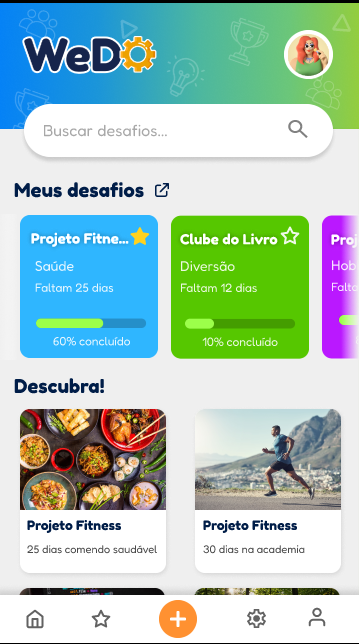
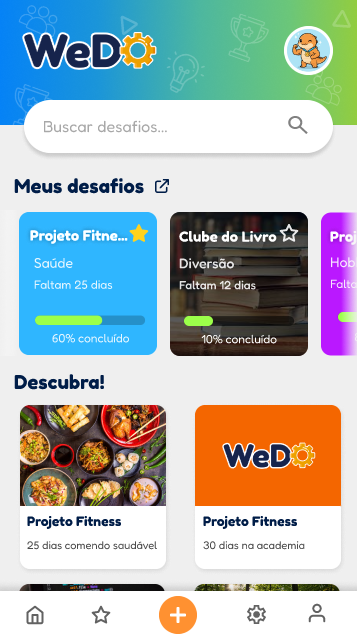
Mudanças no layout, cores, organização: mobile e desktop

diff --git a/src/components/Navbar.vue b/src/components/Navbar.vue
@@ -45,7 +45,7 @@
 <style scoped lang="scss">
   @use "sass:color";
   $color-primary: #004c99;
-  $color-text-menu: #337ab7;
+  $color-text-menu: #00417a;
   $color-bg-top: #222222;
   $color-bg-main: #ffffff;
   $breakpoint-mobile: 766px;
@@ -65,7 +65,7 @@
     justify-content: space-between;
     align-items: center;
     height: 80px;
-    padding-right: 15%;
+    padding-right: 10%;
     background-color: $color-bg-main;
 
     &--logo {
@@ -73,7 +73,7 @@
       align-items: center;
 
       .logo-img {
-        height: 60px;
+        height: 70px;
         width: auto;
       }
     }
@@ -104,7 +104,7 @@
 
     &--menu {
       display: flex;
-      gap: 30px;
+      gap: 50px;
       background-color: $color-bg-main;
 
       .navbar--link {

diff --git a/src/components/Home.vue b/src/components/Home.vue
@@ -22,7 +22,7 @@
   @use "sass:color";
 
   .hero-section {
-    background-color: #004c99;
+    background-color: transparent;
     display: flex;
     flex-direction: column;
     align-items: center;
@@ -32,8 +32,8 @@
 
     @media (min-width: 768px) {
       flex-direction: row;
-      justify-content: center;
-      padding: 80px 10%;
+      justify-content: space-evenly;
+      padding: 70px 5%;
     }
 
     &__content {
@@ -56,7 +56,7 @@
 
       @media (min-width: 768px) {
         font-size: 2em;
-        text-align: justify;
+        text-align: left;
       }
 
       @media (min-width: 1024px) {
@@ -100,6 +100,7 @@
 
       @media (min-width: 1024px) {
         min-height: 500px;
+        max-width: 500px;
       }
     }
   }

diff --git a/src/components/Products.vue b/src/components/Products.vue
@@ -62,9 +62,9 @@
   @use "sass:color";
 
   $color-bg-light: #f4f4f4;
-  $color-primary: #004c99;
+  $color-primary: #002499;
   $color-text-dark: #333333;
-  $color-highlight: #337ab7;
+  $color-highlight: #016dcc;
 
   .wedo-section {
     background-color: $color-bg-light;

diff --git a/src/components/Contact.vue b/src/components/Contact.vue
@@ -108,8 +108,8 @@
   $color-input-focus: #337ab7;
 
   .contact-section {
-    background-color: $color-bg-blue;
-    padding: 80% 5%;
+    background-color: transparent;
+    padding: 80% 5% 15% 5% ;
 
     @media (min-width: 420px) {
       padding: 50% 5%;

diff --git a/src/components/Services.vue b/src/components/Services.vue
@@ -98,7 +98,7 @@
   $color-cta-text: #004c99;
 
   .services-wrapper {
-    background-color: $color-bg-blue;
+    background-color: #ffffff00;
     padding-inline: 10%;
     padding-bottom: 40%;
     color: $color-text-light;

diff --git a/src/assets/main.css b/src/assets/main.css
@@ -8,7 +8,7 @@ html, body{
   font-family: 'Roboto', sans-serif;
 }
 body{
-  background-color: #004C99
+  background: linear-gradient(135deg, #002896, #00b7ff);
 }
 html {
     scroll-behavior: smooth;
